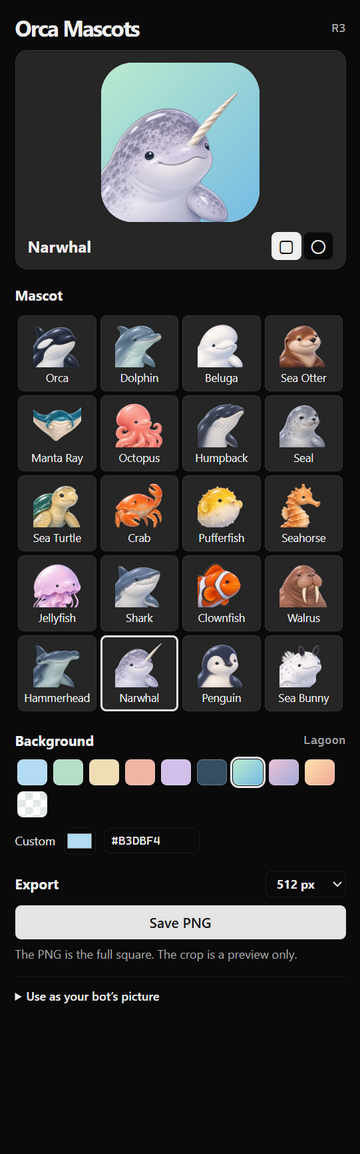
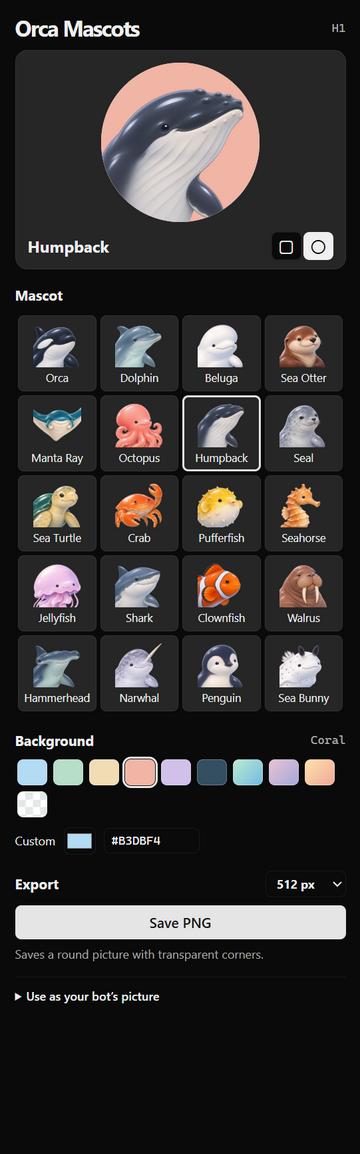
feat: save a round picture when the circle shape is selected

diff --git a/panel/index.html b/panel/index.html
@@ -13,9 +13,9 @@
     <section class="studio" aria-label="Avatar preview">
       <div class="preview-wrap"><div id="mask" class="checker"><img id="preview" alt=""></div></div>
       <div class="caption"><strong id="current-name"></strong>
-        <div class="segment" role="group" aria-label="Preview shape">
-          <button data-shape="rounded" title="Rounded preview" aria-label="Rounded preview">▢</button>
-          <button data-shape="circle" title="Circle preview" aria-label="Circle preview">○</button>
+        <div class="segment" role="group" aria-label="Picture shape">
+          <button data-shape="rounded" title="Square picture" aria-label="Square picture">▢</button>
+          <button data-shape="circle" title="Circle picture" aria-label="Circle picture">○</button>
         </div>
       </div>
     </section>
@@ -32,7 +32,7 @@
     <section>
       <h2>Export <select id="size" aria-label="Export size"><option value="512">512 px</option><option value="1024">1024 px</option></select></h2>
       <div class="actions"><button id="png" disabled>Save PNG</button></div>
-      <p class="hint">The PNG is the full square. The crop is a preview only.</p>
+      <p class="hint" id="shape-hint"></p>
     </section>
     <p id="status" role="status"></p>
     <details><summary>Use as your bot’s picture</summary>

diff --git a/README.md b/README.md
@@ -18,7 +18,7 @@ Orca shows the repository, publisher, and requested access before installing. Ex
 
 1. Select an animal in the gallery. Keyboard users can Tab through the buttons and press Enter or Space to select.
 2. Choose a solid, gradient or transparent swatch. For a custom solid, use the colour picker or enter a three- or six-digit hex value. Sky blue (`#B3DBF4`) matches the default background of the built-in mascots.
-3. Switch between rounded and circular previews. The checkerboard shows transparency. The export keeps the entire square, including the corners.
+3. Choose the picture shape. Square saves the entire image (Orca rounds the corners itself when it shows a bot). Circle saves exactly the round picture in the preview, with transparent corners. The checkerboard shows transparency.
 4. Choose **512 px** or **1024 px**, then **Save PNG** and choose a destination in Orca’s save dialog.
 
 The panel remembers your animal, background, last custom colour, preview shape and export size in its local plugin storage. All artwork is bundled and the panel runs offline.
